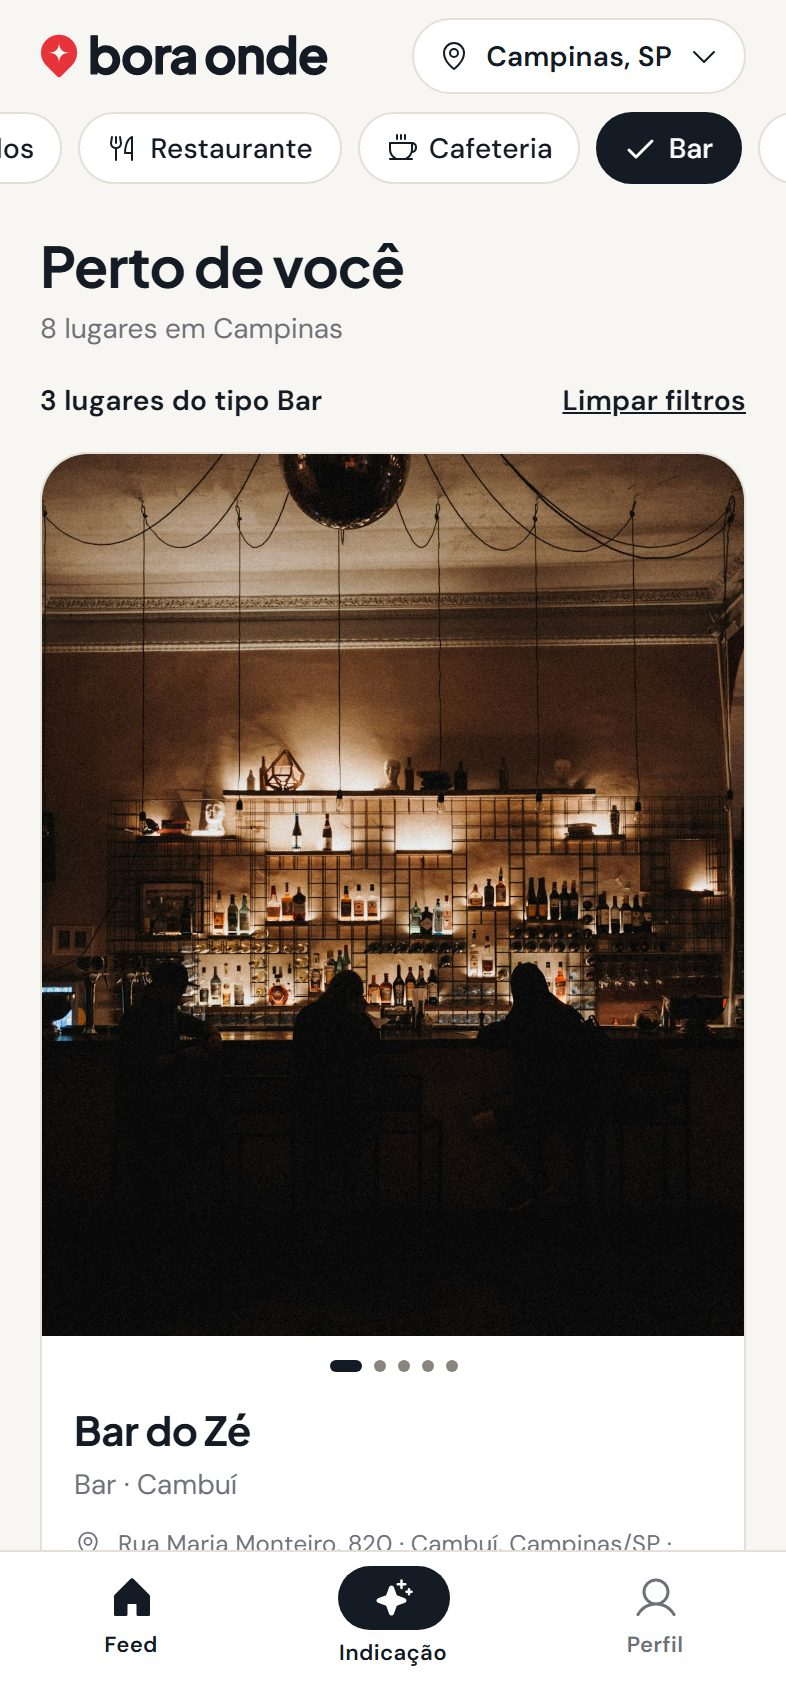
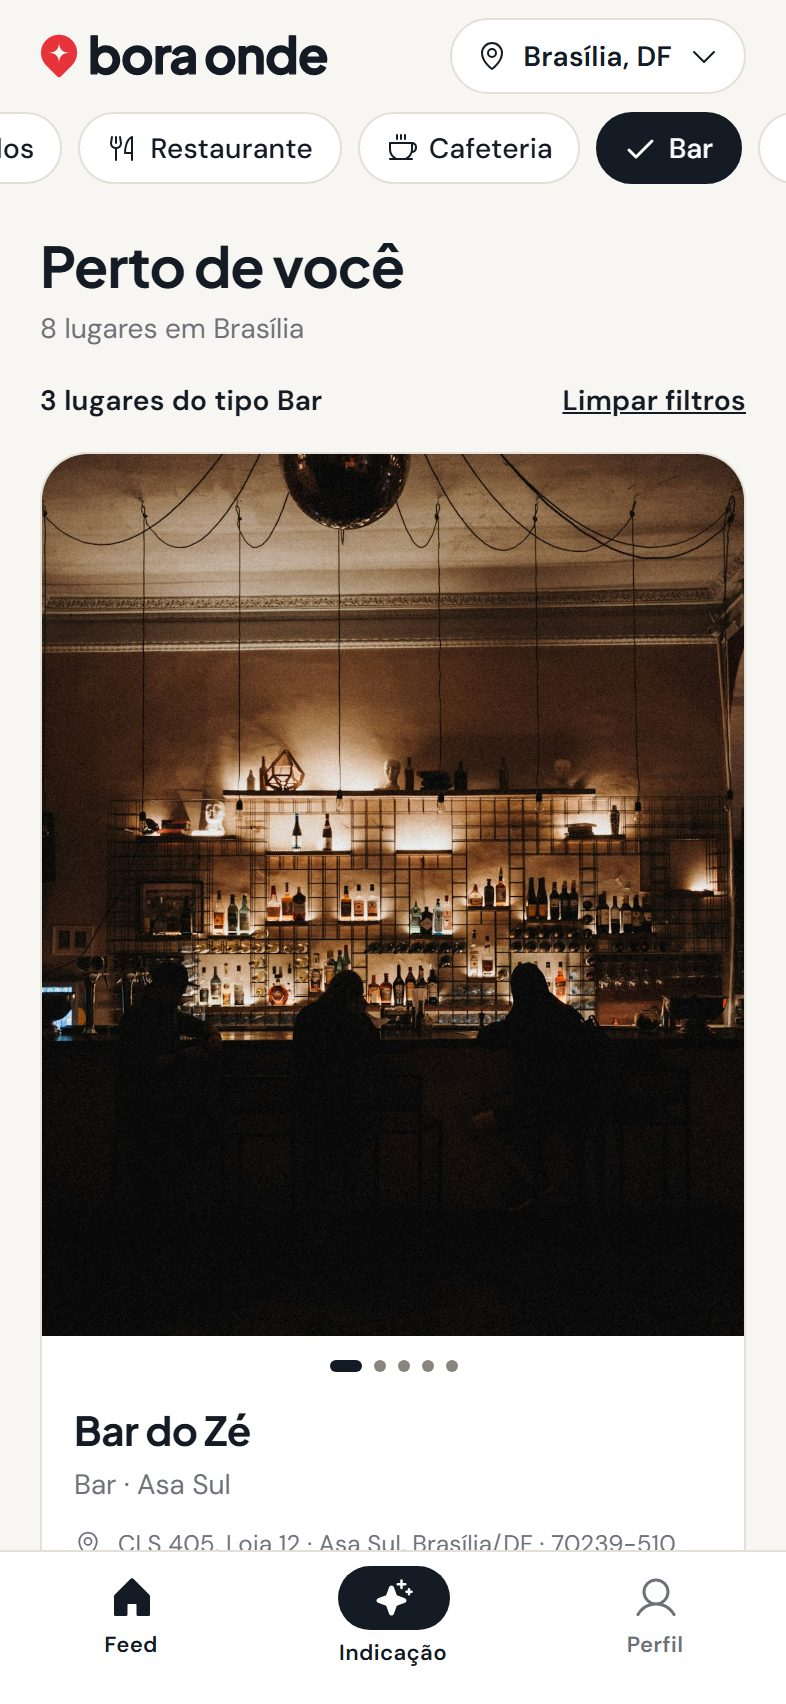
Alteração de Campinas, SP para Brasília, DF como cidade primária para testes de usabilidade

diff --git a/src/app/dev/components.tsx b/src/app/dev/components.tsx
@@ -28,15 +28,15 @@ const samplePlace: Place = {
   id: 'demo',
   name: 'Bar do Zé',
   photos: [swatch('#D9CFC1'), swatch('#C9BFAF'), swatch('#B9AE9C')],
-  cep: '13025151',
-  city: 'Campinas, SP',
-  neighborhood: 'Cambuí',
-  street: 'Rua Maria Monteiro',
-  number: '820',
+  cep: '70239510',
+  city: 'Brasília, DF',
+  neighborhood: 'Asa Sul',
+  street: 'CLS 405',
+  number: 'Loja 12',
   metadata: { type: 'bar', vibes: ['friends'], sellsAlcohol: true },
 };
 
-const cities = ['Campinas, SP', 'São Paulo, SP', 'Belo Horizonte, MG'];
+const cities = ['Brasília, DF', 'São Paulo, SP', 'Belo Horizonte, MG'];
 
 function Section({ title, children }: { title: string; children: ReactNode }) {
   return (
@@ -67,7 +67,7 @@ export default function ComponentsGallery() {
   const [alcohol, setAlcohol] = useState<'yes' | 'no'>('yes');
   const [filter, setFilter] = useState('Todos');
   const [quiz, setQuiz] = useState('Bar');
-  const [city, setCity] = useState<string | undefined>('Campinas, SP');
+  const [city, setCity] = useState<string | undefined>('Brasília, DF');
   const [sheet, setSheet] = useState(false);
   const [modal, setModal] = useState<'none' | 'destrutivo' | 'sucesso'>('none');
   const [email, setEmail] = useState('');
@@ -218,7 +218,7 @@ export default function ComponentsGallery() {
             </View>
           </Row>
           <Row label="estado vazio / erro / carregando">
-            <EmptyState title="Nenhum lugar encontrado" message="Nenhum lugar com esses critérios em Campinas." actionLabel="Limpar filtros" onAction={() => {}} />
+            <EmptyState title="Nenhum lugar encontrado" message="Nenhum lugar com esses critérios em Brasília." actionLabel="Limpar filtros" onAction={() => {}} />
             <ErrorState message="Não foi possível carregar os lugares." actionLabel="Tentar novamente" onAction={() => {}} />
             <View className="gap-2">
               <Skeleton className="h-[200px] w-full" />

diff --git a/src/lib/place.ts b/src/lib/place.ts
@@ -24,13 +24,13 @@ export function formatCep(digits: string): string {
   return d.length > 5 ? `${d.slice(0, 5)}-${d.slice(5)}` : d;
 }
 
-/** "Rua Maria Monteiro, 820 · Cambuí, Campinas/SP · 13025-151" */
+/** "CLS 405, Loja 12 · Asa Sul, Brasília/DF · 70239-510" */
 export function formatAddress(place: Place): string {
   const cityState = place.city.replace(/,\s*/, '/');
   return `${place.street}, ${place.number} · ${place.neighborhood}, ${cityState} · ${formatCep(place.cep)}`;
 }
 
-/** "Bar · Cambuí" — sem o tipo, só o bairro (lugar sem Dados Extras). */
+/** "Bar · Asa Sul" — sem o tipo, só o bairro (lugar sem Dados Extras). */
 export function formatMeta(place: Place): string {
   const type = place.metadata?.type;
   return type ? `${placeTypeLabel[type]} · ${place.neighborhood}` : place.neighborhood;

diff --git a/src/features/recommendation/engine.test.ts b/src/features/recommendation/engine.test.ts
@@ -8,15 +8,15 @@ const place = (id: string, name: string, metadata?: PlaceMetadata): Place => ({
   id,
   name,
   photos: [],
-  cep: '13025151',
-  city: 'Campinas, SP',
-  neighborhood: 'Cambuí',
+  cep: '70239510',
+  city: 'Brasília, DF',
+  neighborhood: 'Asa Sul',
   street: 'Rua Teste',
   number: '1',
   metadata,
 });
 
-// Espelha o seed de Campinas.
+// Espelha o seed de Brasília.
 const barDoZe = place('bar-do-ze', 'Bar do Zé', { type: 'bar', vibes: ['friends', 'romantic'], sellsAlcohol: true });
 const boteco = place('boteco', 'Boteco Esquina', { type: 'bar', vibes: ['friends'], sellsAlcohol: true });
 const cafe = place('cafe', 'Café Grão Fino', { type: 'cafe', vibes: ['family', 'friends'], sellsAlcohol: false });

diff --git a/src/app/(auth)/signup-establishment.tsx b/src/app/(auth)/signup-establishment.tsx
@@ -110,7 +110,7 @@ export default function SignupEstablishmentScreen() {
           control={control}
           name="neighborhood"
           render={({ field, fieldState }) => (
-            <TextField label="Bairro" placeholder="Ex.: Cambuí" autoCapitalize="words" value={field.value} onChangeText={field.onChange} onBlur={field.onBlur} error={fieldState.error?.message} />
+            <TextField label="Bairro" placeholder="Ex.: Asa Sul" autoCapitalize="words" value={field.value} onChangeText={field.onChange} onBlur={field.onBlur} error={fieldState.error?.message} />
           )}
         />
         <View className="flex-row items-start gap-3">

diff --git a/src/lib/cities.ts b/src/lib/cities.ts
@@ -1,5 +1,5 @@
 // Lista fixa de cidades (seletor de Cidade nos cadastros e no perfil). Formato "Cidade, UF".
-// Campinas concentra o seed; as outras permitem demonstrar a troca de cidade no perfil.
-export const CITIES = ['Campinas, SP', 'São Paulo, SP', 'Belo Horizonte, MG'] as const;
+// Brasília concentra o seed; as outras permitem demonstrar a troca de cidade no perfil.
+export const CITIES = ['Brasília, DF', 'São Paulo, SP', 'Belo Horizonte, MG'] as const;
 
 export type City = (typeof CITIES)[number];

diff --git a/src/features/feed/filters.test.ts b/src/features/feed/filters.test.ts
@@ -8,9 +8,9 @@ const place = (id: string, metadata?: PlaceMetadata): Place => ({
   id,
   name: id,
   photos: [],
-  cep: '13025151',
-  city: 'Campinas, SP',
-  neighborhood: 'Cambuí',
+  cep: '70239510',
+  city: 'Brasília, DF',
+  neighborhood: 'Asa Sul',
   street: 'Rua Teste',
   number: '1',
   metadata,

diff --git a/src/data/types.ts b/src/data/types.ts
@@ -17,7 +17,7 @@ export type Place = {
   photos: string[];
   /** Somente dígitos (8). */
   cep: string;
-  /** Formato "Campinas, SP". */
+  /** Formato "Brasília, DF". */
   city: string;
   neighborhood: string;
   street: string;
